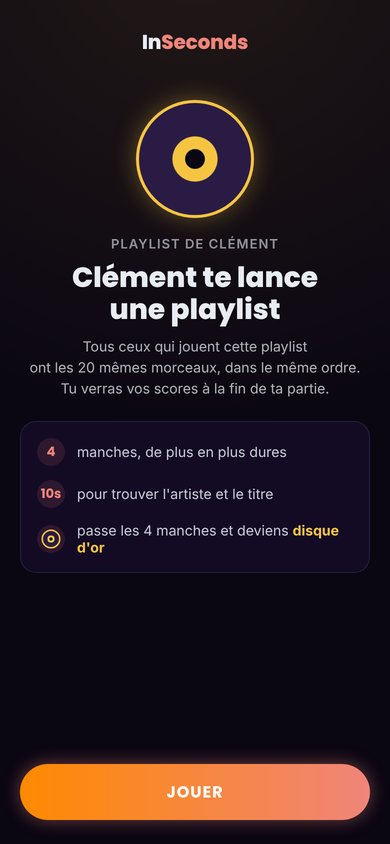
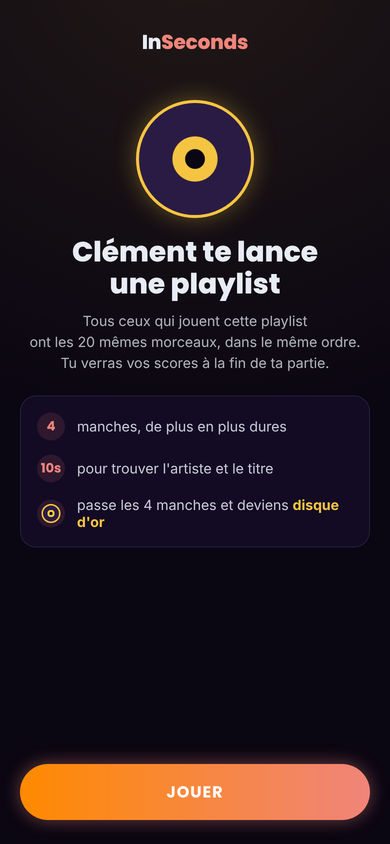
docs(runs): lien reçu sans surtitre

Changed region(s): [[0.0923, 0.2773, 0.9231, 0.6777]]

diff --git a/docs/runs/ecrans.md b/docs/runs/ecrans.md
@@ -120,7 +120,7 @@ Même mise en page dans les deux cas :
 
 Ce que voit un ami qui ouvre `inseconds.cc/runs/<code>` sans avoir encore joué cette playlist, invité compris, avec ou sans accès à Platines :
 - le logo seul en haut (ni série, ni compte : l'écran doit marcher pour un invité tout neuf) ;
-- le disque d'or, le surtitre « PLAYLIST DE CLÉMENT » (pseudo de l'auteur, « Invité » à défaut), le titre « Clément te lance une playlist » ;
+- le disque d'or et le titre « Clément te lance une playlist » (pseudo de l'auteur, « Invité » à défaut), sans surtitre ;
 - « Tous ceux qui jouent cette playlist ont les 20 mêmes morceaux, dans le même ordre. Tu verras vos scores à la fin de ta partie. » : la comparaison n'est visible qu'après avoir joué (réponse à `runs.comparison_locked`) ;
 - trois règles courtes : « 4 manches, de plus en plus dures », « 10s pour trouver l'artiste et le titre », « passe les 4 manches et deviens **disque d'or** » (petit disque doré en pastille) ;
 - **« JOUER »**, qui crée l'invité si besoin et lance la partie (le son démarre à ce clic) ;
